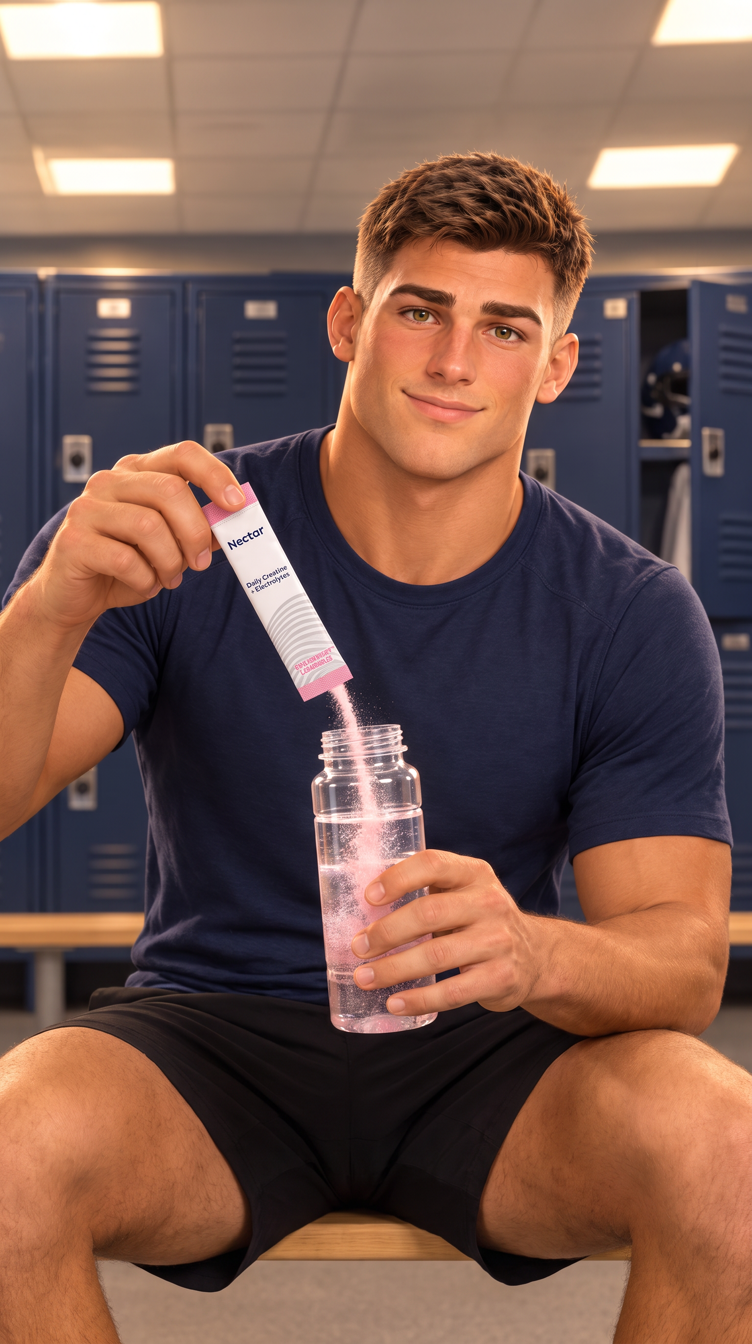
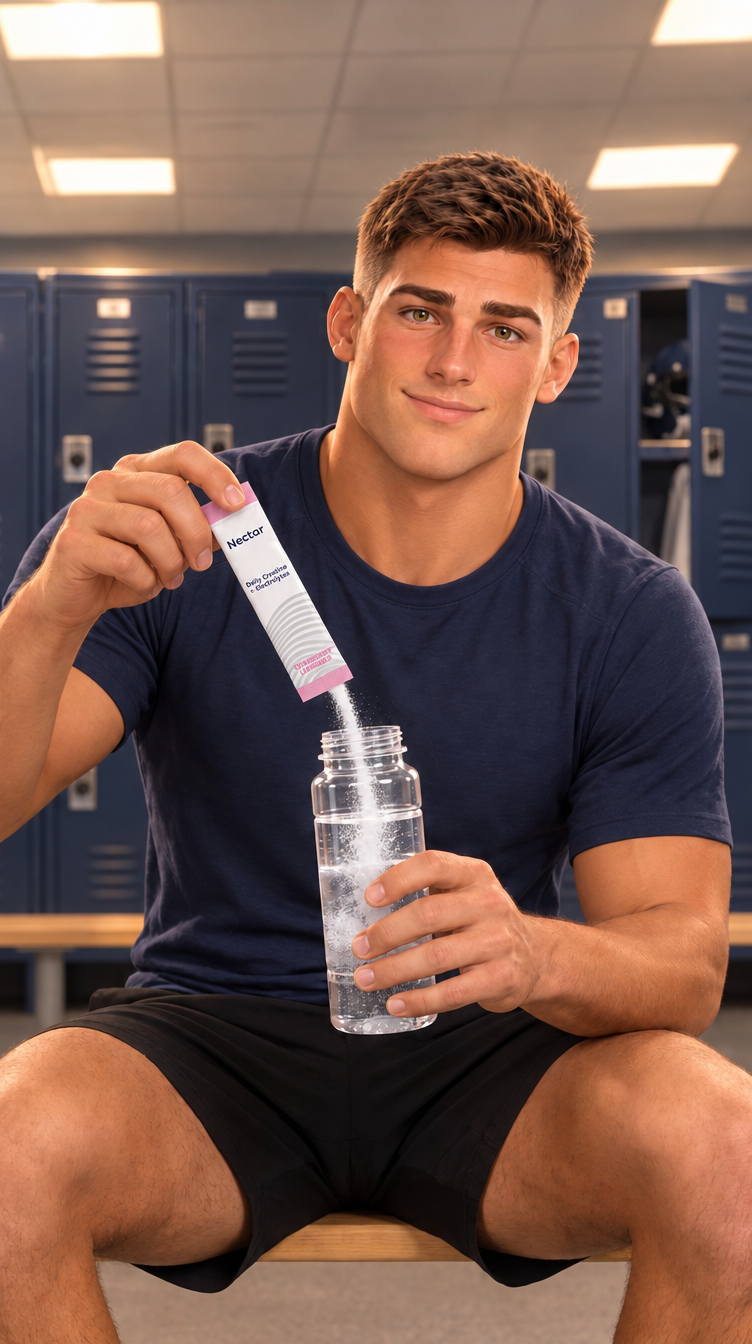
Fix product powder to white / clear water in stills 22, 28, 29, 30
Claude-Session: https://claude.ai/code/session_01UkGsbyNrPBkx5c6UVJpffD

diff --git a/videos/nectar-pilot/references/PRODUCT.md b/videos/nectar-pilot/references/PRODUCT.md
@@ -23,6 +23,9 @@ Use these details in every prompt that shows the product, and attach
 - Always attach the stick references when sticks are in shot; edit the frame rather
   than regenerating the scene (approved end-card fix: job 0531b652-040a-45c4-a0fe-7707d15e0502)
 
+## Powder
+- Soft, fine WHITE powder (regular creatine) that dissolves clean: water stays clear. Never pink/colored.
+
 ## Style notes
 - In stylized/cartoon scenes keep the pouch shape, colors and the "Nectar" logo legible;
   small print can be simplified.
